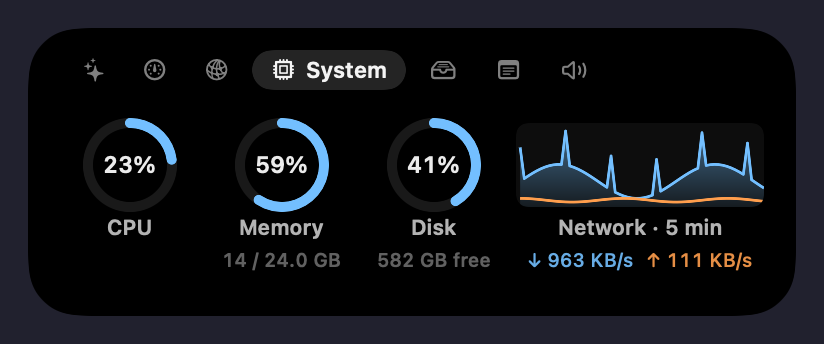
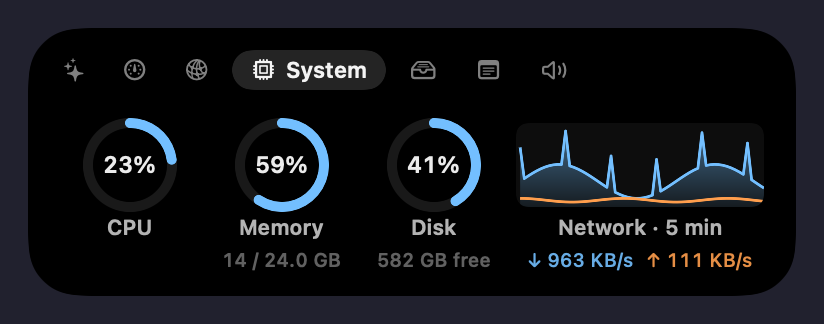
Halve the row margins: 10 pt, with 22 pt opened corners
Rows and the tab bar now sit 10 pt from the opened notch's sides and bottom.
To keep a hovered row's 12 pt ends parallel to the notch's corners, the opened
corner radius is 12 + 10 = 22 pt, taken from IslandMetrics.

diff --git a/Notchly/Views/Island/IslandMetrics.swift b/Notchly/Views/Island/IslandMetrics.swift
@@ -17,15 +17,16 @@ enum IslandMetrics {
     static let contentInset: CGFloat = 16
     /// Corner radius of an alert dropping out of the notch.
     static let noticeRadius: CGFloat = 24
-    /// Corner radius of the opened notch.
-    static let openedRadius: CGFloat = 32
+    /// Corner radius of the opened notch: a row's 12 pt rounded end plus its 10 pt margin,
+    /// so a hovered row's corners run parallel to the notch's.
+    static let openedRadius: CGFloat = 22
     static let buttonHeight: CGFloat = 30
 
     /// Clickable rows in the opened panels, and their pill-shaped hover highlight.
     static let rowHeight: CGFloat = 24
     static var rowRadius: CGFloat { rowHeight / 2 }
     /// Island edge to a row highlight. Corners run parallel when the inner radius plus
-    /// this gap equals the outer radius: 32 - 12 = 20.
+    /// this gap equals the outer radius: 22 - 12 = 10.
     static var rowEdgeInset: CGFloat { openedRadius - rowRadius }
     /// Highlight edge to the row's icon and text.
     static let rowContentPadding: CGFloat = 8

diff --git a/Notchly/Models/IslandLayout.swift b/Notchly/Models/IslandLayout.swift
@@ -178,7 +178,7 @@ struct IslandLayout {
         case .closed:
             return 8
         case .opened:
-            return 32
+            return IslandMetrics.openedRadius
         case .popping:
             return 10
         case .musicPreview:
